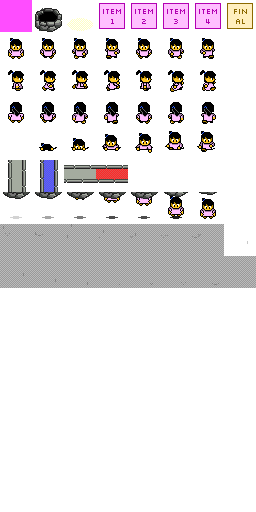
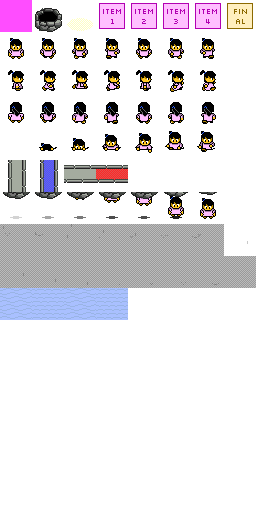
Water.

Changed region(s): [[0.0, 0.5625, 0.5, 0.625]]

diff --git a/src/game_layer.go b/src/game_layer.go
@@ -21,6 +21,18 @@ func NewRain() *twodee.AnimatingEntity {
 	)
 }
 
+func NewWater() *twodee.AnimatingEntity {
+	return twodee.NewAnimatingEntity(
+		0, 0,
+		32.0/PxPerUnit, 32.0/PxPerUnit,
+		0,
+		twodee.Step10Hz,
+		[]int{
+			72, 73, 74, 75,
+		},
+	)
+}
+
 type GameLayer struct {
 	Level                     *Level
 	BatchRenderer             *twodee.BatchRenderer
@@ -29,6 +41,7 @@ type GameLayer struct {
 	App                       *Application
 	menuResumeMusicObserverId int
 	Rain                      *twodee.AnimatingEntity
+	Water                     *twodee.AnimatingEntity
 }
 
 func NewGameLayer(app *Application) (layer *GameLayer, err error) {
@@ -36,6 +49,7 @@ func NewGameLayer(app *Application) (layer *GameLayer, err error) {
 		App:    app,
 		Bounds: twodee.Rect(0, 0, 20, 20),
 		Rain:   NewRain(),
+		Water:  NewWater(),
 	}
 	if layer.BatchRenderer, err = twodee.NewBatchRenderer(layer.Bounds, app.WinBounds); err != nil {
 		return
@@ -94,6 +108,7 @@ func (l *GameLayer) Render() {
 	var i int32
 	var y float32
 	for i = l.Level.Layers - 1; i >= 0; i-- {
+		var waterStatus = l.Level.GetLayerWaterStatus(i)
 		switch {
 		case i == l.Level.Active:
 			fallthrough
@@ -101,7 +116,7 @@ func (l *GameLayer) Render() {
 			fallthrough
 		case i == l.Level.Active-1:
 			y = l.Level.GetLayerY(i)
-			switch l.Level.GetLayerWaterStatus(i) {
+			switch waterStatus {
 			case Dry:
 				l.Level.Geometry[i].SetTextureOffsetPx(0, 0)
 			case Wet:
@@ -120,17 +135,11 @@ func (l *GameLayer) Render() {
 
 			pt := l.Level.Player.Pos()
 			l.TileRenderer.Draw(l.Level.Player.Frame(), pt.X, pt.Y+y, 0, l.Level.Player.FlippedX(), false)
-
 			if i == 0 {
-				var j = 0
-				for x := 0; x < 10; x++ {
-					for y := 0; y < 10; y++ {
-						l.TileRenderer.Draw(l.Rain.OffsetFrame(j), float32(2*x)+1, float32(2*y)+1, 0, false, false)
-						j += 3
-					}
-				}
+				l.DrawOverlay(l.Rain)
+			} else if waterStatus == Flooded {
+				l.DrawOverlay(l.Water)
 			}
-
 			l.TileRenderer.Unbind()
 			l.BatchRenderer.Bind()
 		}
@@ -139,9 +148,20 @@ func (l *GameLayer) Render() {
 	return
 }
 
+func (l *GameLayer) DrawOverlay(entity *twodee.AnimatingEntity) {
+	var j = 0
+	for x := 0; x < 10; x++ {
+		for y := 0; y < 10; y++ {
+			l.TileRenderer.Draw(entity.OffsetFrame(j), float32(2*x)+1, float32(2*y)+1, 0, false, false)
+			j += 3
+		}
+	}
+}
+
 func (l *GameLayer) Update(elapsed time.Duration) {
 	l.Level.Update(elapsed)
 	l.Rain.Update(elapsed)
+	l.Water.Update(elapsed)
 }
 
 func (l *GameLayer) Reset() (err error) {

diff --git a/src/level.go b/src/level.go
@@ -32,15 +32,16 @@ type Level struct {
 func LoadLevel(path string, names []string, eventSystem *twodee.GameEventHandler) (l *Level, err error) {
 	var player = NewPlayer(10, 5)
 	l = &Level{
-		Height:            0,
-		Grids:             []*twodee.Grid{},
-		Items:             [][]*Item{},
-		Geometry:          []*twodee.Batch{},
-		GridRatios:        []float32{},
-		Layers:            0,
-		Active:            0,
-		Player:            player,
-		eventSystem:       eventSystem,
+		Height:      0,
+		Grids:       []*twodee.Grid{},
+		Items:       [][]*Item{},
+		Geometry:    []*twodee.Batch{},
+		GridRatios:  []float32{},
+		Layers:      0,
+		Active:      0,
+		Player:      player,
+		eventSystem: eventSystem,
+		//WaterAccumulation: LevelWaterThreshold,
 		WaterAccumulation: 0,
 		Paused:            false,
 	}

diff --git a/src/overlay_layer.go b/src/overlay_layer.go
@@ -6,7 +6,6 @@ import (
 )
 
 type OverlayLayer struct {
-
 	Game              *GameLayer
 	Events            *twodee.GameEventHandler
 	TileRenderer      *twodee.TileRenderer
@@ -20,6 +19,7 @@ const (
 	OverlayTitleFrame = 0
 	OverlayDeathFrame = 1
 	OverlayWinFrame   = 2
+	OverlayWaterFrame = 3
 )
 
 func NewOverlayLayer(app *Application, game *GameLayer) (layer *OverlayLayer, err error) {

diff --git a/README.md b/README.md
@@ -26,7 +26,7 @@ Theme: "Beneath the surface"
   * [x] Destructable item framework.
   * [x] Health bar.
   * [x] Show picked up items.
-  * [ ] End state.
+  * [x] End state.
   * [x] Splash screen.
   * [ ] Level tiles for dry, partial, drowned levels.
   * [ ] Sound effects.
